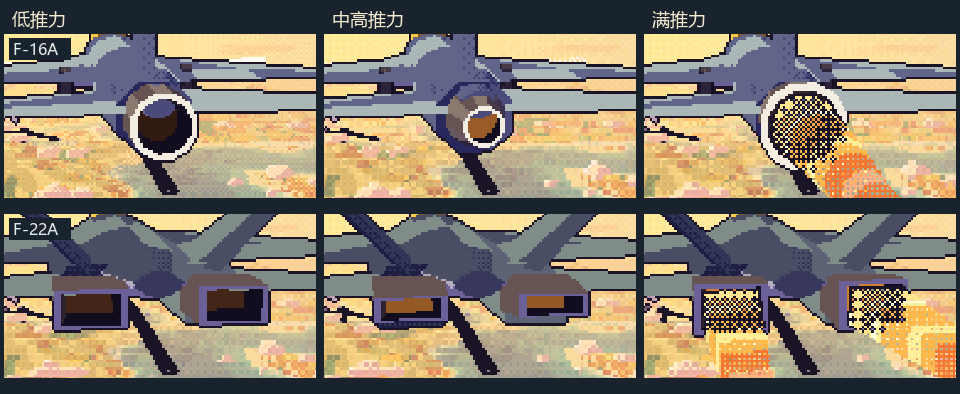
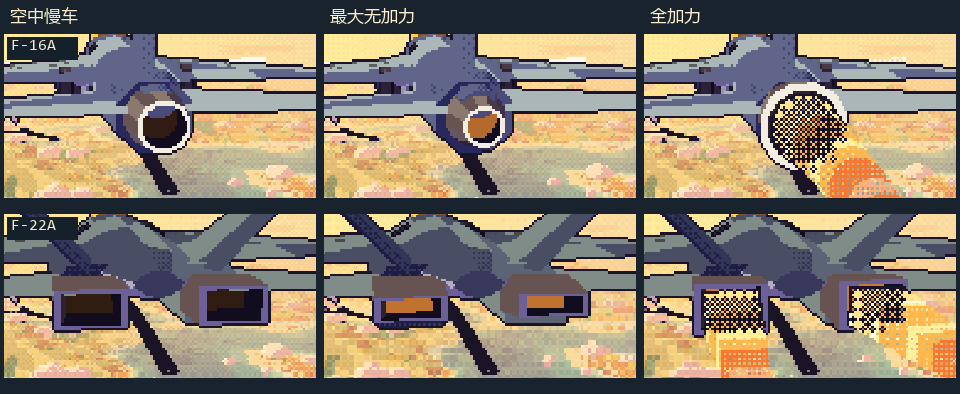
Show dry and augmented nozzle stages and resolve decoys in flight

diff --git a/index.html b/index.html
@@ -635,6 +635,11 @@ float bayer4(vec2 fc){ ivec2 i = ivec2(fc) & 3;
   return (float(m[i.x + i.y*4]) + 0.5) / 16.0; }
 void main(){
   vec2 q = gl_PointCoord * 2.0 - 1.0; float r = dot(q, q); if (r > 1.0) discard;
+  if(vData.z==5.){
+    float fade=1.-smoothstep(.72,1.,vData.y);
+    if(r>.065 && bayer4(gl_FragCoord.xy)>fade*(r>.82?.26:.13))discard;
+    o=vec4(r<.018?vec3(1.,1.,.88):r<.065?vec3(1.,.82,.40):vec3(.96,.56,.27),0.);return;
+  }
   if(vData.z>5.5){o=vec4(vData.w<1.?vec3(1.,1.,.82):vec3(1.,.65,.27),0.);return;}
   float age = vData.y;
   float a = (1.0 - smoothstep(0.5, 1.0, age)) * vNear;
@@ -650,10 +655,6 @@ void main(){
   } else if (vData.z < 2.5) {     // fireball: white, gold, orange, ember, soot
     c = age < 0.16 ? vec3(1.0, 0.98, 0.86) : age < 0.42 ? vec3(1.0, 0.86, 0.42) : age < 0.66 ? vec3(0.98, 0.56, 0.22) : age < 0.84 ? vec3(0.80, 0.29, 0.20) : vec3(0.40, 0.27, 0.32);
     if (age > 0.16 && age < 0.66 && r < 0.25) c = min(c + vec3(0.02, 0.12, 0.26), 1.0);     // hotter heart
-  } else if(vData.z > 4.5){
-    vec2 p=abs(q);
-    if(p.x+p.y>.88&&min(p.x,p.y)>.10)discard;
-    c=p.x+p.y<.40?vec3(1.,1.,.94):p.x+p.y<.66?vec3(1.,.84,.47):vec3(.97,.50,.21);
   } else if (vData.z > 3.5) {     // the flash
     c = age < 0.5 ? vec3(1.0, 0.99, 0.93) : vec3(1.0, 0.92, 0.62);
   } else {                        // the dark smoke that hangs afterwards
@@ -822,7 +823,7 @@ const PLANE = {
   gl.bindVertexArray(null);
   let streakStamp=-1,streakCount=0;
   const PART_N = 760;
-  const partData = new Float32Array((PART_N+8+64) * 7);
+  const partData = new Float32Array((PART_N+12+12*Outfit.flares.capacity) * 7);
   const partBuf = gl.createBuffer(); gl.bindBuffer(gl.ARRAY_BUFFER, partBuf); gl.bufferData(gl.ARRAY_BUFFER, partData.byteLength, gl.DYNAMIC_DRAW);
   const partVAO = vao(partBuf, [3, 4], 7);
 
@@ -1062,7 +1063,7 @@ const PLANE = {
   const JS = 1.3;   // the jet is drawn a little larger than life so it reads from high above
   function toWorld(B, p) { return add(S.pos, add(add(mul(B.r, p[0] * JS), mul(B.u, p[1] * JS)), mul(B.f, p[2] * JS))); }
 
-  const flareFans=[];
+  const decoyAge=(d,now)=>(room.tracerClock+now-room.tracerTime)*.001-d.at;
   room.onEffect=event=>{
     audio.event(event,room.id,cam);
     if(event.loss>0 && event.part && (event.from===room.id || event.to===room.id)){
@@ -1071,10 +1072,6 @@ const PLANE = {
       impactUntil=performance.now()+2500;
     }
     if(event.kind==='intercept' && event.from===room.id){notice='机炮拦截成功';noticeUntil=performance.now()+1600;}
-    if(event.kind==='flare'){
-      if(flareFans.length===32)flareFans.shift();
-      flareFans.push({a:event.a,arms:[sub(event.b,event.a),sub(event.c,event.a)],born:performance.now()-Math.min(1200,Math.max(0,(room.tracerClock??0)-event.at*1000)),next:0,cores:[new Float32Array(3),new Float32Array(3)]});
-    }
     if(event.loss>0 || ['hit','spark','burst','fade','intercept'].includes(event.kind)){
       const big=event.kind==='burst'||event.loss>=14;
       spawn(event.b,[0,0,0],.16,big?25:11,4);
@@ -1172,17 +1169,11 @@ const PLANE = {
         shot.smokeAt=now+36;
       }
     }
-    for(let i=flareFans.length-1;i>=0;i--){
-      const fan=flareFans[i],age=(now-fan.born)/1000;
-      if(age>1.35){flareFans.splice(i,1);continue;}
-      const travel=1-Math.exp(-2.8*age),smoke=now>=fan.next;
-      if(smoke)fan.next=now+105;
-      for(let k=0;k<fan.arms.length;k++){
-        const arm=fan.arms[k],p=fan.cores[k];
-        for(let d=0;d<3;d++)p[d]=fan.a[d]+arm[d]*travel;
-        p[1]-=24*age*age;
-        if(smoke)spawn(p,[0,2,0],.61,3.6,3);
-      }
+    for(const d of room.decoys.values()){
+      const age=decoyAge(d,now);
+      if(age<0 || age>=Outfit.flares.life)continue;
+      Outfit.flarePosition(d.start,d.velocity,age,d.pos);
+      if(now>=d.nextSmoke){d.nextSmoke=now+95;spawn(d.pos,[0,2,0],.61,3.6,3);}
     }
 
     // wing-tip vapour, and the furrow the jet wash cuts in the water
@@ -1489,8 +1480,8 @@ const PLANE = {
       gl.uniform4f(pr.u('uWear'),c.fuselage/100,c.leftWing/100,c.rightWing/100,c.tail/100);
       gl.uniform4f(pr.u('uGearWear'),c.leftGear/100,c.rightGear/100,c.noseGear/100,c.engine/100);
       const spec=Flight.fleet[type];
-      const burner=spec.auxBurner?rig[6]:0,opening=Flight.nozzleOpening(spec,rig[5],rig[6])-1;
-      const exhaust=(spec.highPower ? .94*sstep(.72,1,rig[5]):.06*rig[5]**2)+burner*.90;
+      const burner=Flight.burnerStage(spec,rig[5],rig[6]),opening=Flight.nozzleOpening(spec,rig[5],rig[6],rig[3])-1;
+      const exhaust=.94*sstep(0,1,burner);
       gl.uniform4f(pr.u('uOutlet'),spec.flatOutlet?0:opening,opening,spec.engineSpacing,rig[5]);
       const mist=Math.max(0,1-Math.abs(mach-1)/.087)*clamp((1700-pos[1])/800,0,1);
       gl.uniform4f(pr.u('uControls'),rig[0],rig[1],rig[2],rig[3]);
@@ -1565,15 +1556,13 @@ const PLANE = {
       partData[o + 3] = parts.size[i] * (kd === 0 ? 0.7 + a * 2.4 : kd === 2 ? 0.6 + a * 1.0 : kd === 3 ? 0.4 + a * 2.0 : kd === 4 ? 0.7 + a * 0.5 : 1); partData[o + 4] = a; partData[o + 5] = parts.kind[i]; partData[o + 6] = i;
       n++;
     }
-    // Reserve two directly drawn cores per active packet even when smoke is at capacity.
     const flareNow=performance.now();
-    for(const fan of flareFans){
-      const a=Math.max(0,(flareNow-fan.born)/1350);
-      for(let k=0;k<fan.cores.length;k++){
-        const o=n++*7,p=fan.cores[k];
-        partData[o]=p[0];partData[o+1]=p[1];partData[o+2]=p[2];
-        partData[o+3]=(k?5.3:7.5)*(1-.55*a);partData[o+4]=Math.min(1,a);partData[o+5]=5;partData[o+6]=k;
-      }
+    for(const d of room.decoys.values()){
+      const age=decoyAge(d,flareNow);
+      if(age<0 || age>=Outfit.flares.life)continue;
+      const o=n++*7;
+      partData[o]=d.pos[0];partData[o+1]=d.pos[1];partData[o+2]=d.pos[2];
+      partData[o+3]=Outfit.flares.radius*2;partData[o+4]=age/Outfit.flares.life;partData[o+5]=5;partData[o+6]=0;
     }
     if(room.combat && performance.now()-room.tracerTime<220){
       const phase=.5+.5*Math.cos(2*Math.PI*Sight.gunRate*S.time);
@@ -1626,7 +1615,7 @@ const PLANE = {
     inspectParts=false;damageUntil=0;$('damage-panel').hidden=true;
     audio.setActive(false);
     outfit.close();$('lake-chart').hidden=true;
-    watchId=null;onlineSortie=false;$('title').classList.remove('gone');S.view=S.prev=0;S.viewT=1;flareFans.length=0;
+    watchId=null;onlineSortie=false;$('title').classList.remove('gone');S.view=S.prev=0;S.viewT=1;
     releaseKeys(); flying=false; room.leave(); $('hangar').hidden=false; $('strip').hidden=true;
     $('strip').classList.remove('seated');
     $('scope').hidden=true;$('launch-note').textContent='';displayCard();$('mode').focus();
@@ -1815,7 +1804,7 @@ const PLANE = {
     const runway=Airfields.at(body.pos[0],body.pos[2]);
     const gearInfo=body.grounded?'地面 · '+(keys.has('KeyZ')?'刹车':S.speed<2?'R 加油门':'抬轮参考 '+Math.round(body.rotateSpeed*3.6)+' km/h · S 抬头'):
       runway&&body.pos[1]-runway.y<90?'跑道上方 '+Math.round(body.pos[1]-runway.y)+' m · 垂速 '+S.vs.toFixed(1)+' m/s':body.updraft>.2?'上升气流 +'+body.updraft.toFixed(1)+' m/s':S.g.toFixed(1)+' G';
-    $('telemetry').textContent=Math.round(S.speed*3.6)+' km/h　M '+body.mach.toFixed(2)+'　'+Math.round(S.pos[1])+' m　'+Math.round(body.throttle*100)+'% 油门　'+gearLabel+'　'+gearInfo;
+    $('telemetry').textContent=Math.round(S.speed*3.6)+' km/h　M '+body.mach.toFixed(2)+'　'+Math.round(S.pos[1])+' m　'+Math.round(body.throttle*100)+'% 油门'+(Flight.burnerStage(Flight.fleet[body.type],body.engine,body.deploy)>.005?' · 加力':'')+'　'+gearLabel+'　'+gearInfo;
     const peers=room.combat?[]:[...room.peers.values()].map(peer=> {
       const delta=sub(nearest(peer.pos,S.pos),S.pos), bearing=(Math.atan2(delta[0],-delta[2])*180/Math.PI+360)%360;
       return peer.name+' '+Math.round(Math.hypot(...delta))+' m / '+Math.round(bearing)+'°';
@@ -1888,7 +1877,7 @@ const PLANE = {
     $('trait-state').textContent=(watched?'观测 '+watched.name+'　':'')+(S.view===3&&orbit.anchor?'定点观测':VIEWS[S.view])+'　/　'+(active?'V ':'')+spec.trait+
       (active?(spec.unstable?(rig[6]>.5?' · 增稳放宽':' · 自动增稳'):(rig[6]>.06?' · 已展开':' · 待命')):'')+(!watched&&type==='pulse'?'　电量 '+Math.round(body.charge*100)+'%':'')+
       (spec.canard?'　前翼 左 '+Math.round(-Flight.canardAngle(spec,rig[0],rig[2],rig[6],-1)*180/Math.PI)+'° / 右 '+Math.round(-Flight.canardAngle(spec,rig[0],rig[2],rig[6],1)*180/Math.PI)+'°':'')+
-      nozzle+(spec.shaft?'':'　喷口开度 '+Math.round(100*Flight.nozzleOpening(spec,rig[5],rig[6])/(spec.highPower?1.27:1.04))+'%')+(!watched&&(spec.vector||spec.unstable)?'　迎角 '+Math.round(body.alpha*180/Math.PI)+'°':'');
+      nozzle+(spec.shaft?'':(Flight.burnerStage(spec,rig[5],rig[6])>.005?'　加力':'　无加力')+' · 喷口相对开度 '+Math.round(100*Flight.nozzleOpening(spec,rig[5],rig[6],rig[3])/(spec.highPower?1.27:1.04))+'%')+(!watched&&(spec.vector||spec.unstable)?'　迎角 '+Math.round(body.alpha*180/Math.PI)+'°':'');
   }
 
   const audio=new FlightAudio(Sight.gunRate);

diff --git a/flight.js b/flight.js
@@ -42,7 +42,7 @@ const Flight = (() => {
   fleet.j20={...fleet.cirrus,name:'歼-20',role:'双发鸭式 · 外形复刻',noseLength:13.5,wingLevel:false,yawDamper:true};
   fleet.j16={...fleet.comet,name:'歼-16',role:'串列双座 · 外形复刻',noseLength:12.1,roll:3.15,pitch:1.72,yawDamper:true};
   fleet.f4={...fleet.comet,name:'F-4C 鬼怪 II',role:'折翼双座',noseLength:11.8,roll:2.95,yawDamper:true};
-  fleet.f16={...fleet.petrel,name:'F-16A 战隼',role:'单发轻型',singleEngine:true,noseLength:10.8,roll:5.15,landingFlaps:true};
+  fleet.f16={idleAreaReset:true,...fleet.petrel,name:'F-16A 战隼',role:'单发轻型',singleEngine:true,noseLength:10.8,roll:5.15,landingFlaps:true};
   fleet.f22={...fleet.lance,name:'F-22A 猛禽',role:'双尾二维矢量',noseLength:12.4,roll:3.75};
   fleet.f15={...fleet.comet,name:'F-15C 鹰',role:'双垂尾重型',noseLength:13.8,roll:3.45,pitch:1.75,wingLevel:true};
   fleet.m2000={...fleet.delta,name:'幻影 2000C',role:'无平尾三角翼',singleEngine:true,noseLength:12.6,elevon:true,yawDamper:true};
@@ -228,7 +228,7 @@ const Flight = (() => {
       body.vecYaw+=(yaw/limit-body.vecYaw)*response;
       body.vecRoll+=(roll/limit-body.vecRoll)*response;
     }
-    const powerLever=clamp((body.engine-.72)/.28,0,1);
+    const powerLever=highPowerStage(spec,body.engine);
     const boostedThrust=(spec.highPower||0)*powerLever**2*clamp((speed-(body.type==='kite'?120:55))/110,0,1)*
       clamp(rho/1.225,.25,1)*clamp((2.35-body.mach)/.65,.15,1);
     const tilt=body.vector*.50,thrust=boostedThrust/spec.mass+(body.engine*(body.type==='needle'?1+.60*body.deploy:body.type==='sail'?1-body.deploy:1)+1.05*sprint)*fullThrust(spec,speed,rho)/spec.mass;
@@ -277,14 +277,20 @@ const Flight = (() => {
     if(body.grounded){body.stalled=false;if(speed<2){body.alpha=0;body.slip=0;}}
     body.load=body.grounded?1:(accelX*axis.u[0]+accelY*axis.u[1]+accelZ*axis.u[2])/9.81;
   }
-  // Visual travel follows the spooled engine. The lip narrows in dry power
-  // and opens again as the game's high-power stage comes in.
-  function nozzleOpening(spec,engine,deploy=0){
-    const dry=clamp(engine/.72,0,1),wet=clamp((engine-.72)/.28,0,1);
-    const boost=Math.max(spec.highPower?wet:0,spec.auxBurner?deploy:0);
-    return 1.04-.45*dry*(2-dry)+.68*boost*boost*(3-2*boost);
+  function highPowerStage(spec,engine){
+    return spec.highPower?clamp((engine-.72)/.28,0,1):0;
+  }
+  function burnerStage(spec,engine,deploy){
+    return Math.max(highPowerStage(spec,engine),spec.auxBurner?deploy:0);
+  }
+  function nozzleOpening(spec,engine,deploy=0,gear=0){
+    const dry=clamp(engine/(spec.highPower ? .72 : 1),0,1);
+    const idle=spec.idleAreaReset ? .80+.24*gear : 1.04;
+    const throat=.59+(idle-.59)*(1-dry)**2;
+    const wet=burnerStage(spec,engine,deploy);
+    return throat+(1.27-throat)*wet*wet*(3-2*wet);
   }
   function rig(b){return [...b.controls,b.gear,b.vector,b.engine,b.deploy,b.vecYaw,b.vecRoll];}
-  return { fleet, canardAngle, nozzleOpening, rig, create, approach, axes, step, density,soundSpeed,thermal,boomMargin,tick: 1/120 };
+  return { fleet, canardAngle, burnerStage, nozzleOpening, rig, create, approach, axes, step, density,soundSpeed,thermal,boomMargin,tick: 1/120 };
 })();
 if (typeof module !== 'undefined') module.exports = Flight;

diff --git a/room.js b/room.js
@@ -15,7 +15,7 @@ class FlightRoom {
   }
   hostile(peer) { return this.mode==='pvp'||(this.mode==='pve'&&peer.id.startsWith('ai-')); }
   constructor() {
-    this.peers=new Map();this.marks=new Map();this.shots=new Map();this.tracers=new Map();this.seenTracer=0; this.generation=0; this.status='单人飞行'; this.nextSync=0;
+    this.decoys=new Map();this.peers=new Map();this.marks=new Map();this.shots=new Map();this.tracers=new Map();this.seenTracer=0; this.generation=0; this.status='单人飞行'; this.nextSync=0;
   }
   cycleTarget() {
     const peers=[...this.peers.values()].filter(p=>p.hp&&this.hostile(p));
@@ -45,7 +45,7 @@ class FlightRoom {
     return response.json();
   }
   leave() {
-    this.marks.clear();
+    this.decoys.clear();this.marks.clear();
     if(this.token) this.request('leave',{},this.token).catch(()=>{});
     this.triggerTap=false;this.tracerTime=-Infinity;this.token=null; this.generation++; this.busy=false; this.peers.clear(); this.shots.clear();this.tracers=new Map();this.seenTracer=0;this.name=''; this.status='单人飞行';
     this.hurt=null;this.strike=null;
@@ -74,7 +74,7 @@ class FlightRoom {
       if(duel && this.pendingKit!==null)command.kit=this.pendingKit;
       if(duel && Sight.profiles[this.weapon])command.autoFocus=!this.manualTarget && !launch;
       this.triggerTap=false;this.dodge=false;
-      const {peers,self:wireSelf,events,serial,harbor,shots,tracers,clock,tracerSeq,live,mission,tracking}=await this.request('sync',command,this.token);
+      const {peers,self:wireSelf,events,serial,harbor,shots,tracers,clock,tracerSeq,live,mission,tracking,decoys=[]}=await this.request('sync',command,this.token);
       if(version!==this.generation) return;
       const keep=new Set();
       for(let i=0;i<peers.length;i++){
@@ -97,6 +97,15 @@ class FlightRoom {
           if(range===live.length || id<live[range])this.tracers.delete(id);
         }
         this.seenTracer=tracerSeq;this.tracerClock=clock;this.tracerTime=performance.now();
+        const liveDecoys=new Set();
+        for(const row of decoys){
+          if(Array.isArray(row)){
+            const [id,at,start,velocity]=row;
+            this.decoys.set(id,{at,start,velocity,pos:start.slice(),nextSmoke:0});
+            liveDecoys.add(id);
+          }else liveDecoys.add(row);
+        }
+        for(const id of this.decoys.keys())if(!liveDecoys.has(id))this.decoys.delete(id);
         this.kit=self.kit;
         if(this.pendingKit===self.kit)this.pendingKit=null;
         if(!Outfit.has(self.kit,this.weapon))this.selectWeapon(self.weapon);

diff --git a/outfit.js b/outfit.js
@@ -1,6 +1,13 @@
 const Outfit = (() => {
   const budget=7;
-  const flares={capacity:12,burst:3,refill:60,interval:.24};
+  const flares={capacity:12,burst:3,refill:60,interval:.24,life:1.8,radius:32};
+  // Animated club decoy: the room and the renderer sample the same trajectory.
+  function flarePosition(start,velocity,age,out){
+    const travel=age/(1+.80*age);
+    for(let i=0;i<3;i++)out[i]=start[i]+velocity[i]*travel;
+    out[1]-=9*age*age;
+    return out;
+  }
   const items=[
     {id:'gun',name:'机炮',cost:2,tip:'对准机头自由射击，连射过热后需冷却'},
     {id:'missile',name:'燕尾格斗弹',cost:4,tip:'近距宽圈，捕获快，冷却短'},
@@ -23,6 +30,6 @@ const Outfit = (() => {
   function describe(mask,active){
     return items.flatMap((item,i)=>has(mask,item.id)?[(active===item.id?'▸ ':'')+keyLabel(i)+' '+item.name]:[]).join('　');
   }
-  return {items,keys,keyLabel,budget,flares,has,cost,valid,first,maskOf,describe,standard:3};
+  return {items,keys,keyLabel,budget,flares,flarePosition,has,cost,valid,first,maskOf,describe,standard:3};
 })();
 if(typeof module!=='undefined')module.exports=Outfit;

diff --git a/airfields.js b/airfields.js
@@ -30,6 +30,9 @@ const Airfields = (() => {
   function sector(b,point){
     const dx=point[0]-b.pos[0],dy=point[1]-b.pos[1],dz=point[2]-b.pos[2];
     const dot=v=>dx*v[0]+dy*v[1]+dz*v[2],side=dot(b.basis.r),along=dot(b.basis.f);
+    return localSector(side,along);
+  }
+  function localSector(side,along){
     if(Math.abs(side)>2 && Math.abs(side)>.55*Math.abs(along))return side<0?'leftWing':'rightWing';
     if(along<-3)return Math.abs(side)>1?'engine':'tail';
     return 'fuselage';
@@ -117,6 +120,6 @@ const Airfields = (() => {
     if(!was)body.service=0;body.vel[1]=Math.max(1.2,speed*Math.sin(pitch)*.4);body.pos[1]+=.07;
     }
   }
-  return {strips,at,contact,park,clearance,labels,freshCondition,wear,scrape,brush,sector};
+  return {strips,at,contact,park,clearance,labels,freshCondition,wear,scrape,brush,sector,localSector};
 })();
 if(typeof module!=='undefined')module.exports=Airfields;

diff --git a/peer-pose.js b/peer-pose.js
@@ -6,7 +6,7 @@ const selfFields=[
   'cool','flares','puffs','dodge','diverted','acquire','warned','incoming'
 ];
 const PeerPose={
-  protocol:17,
+  protocol:18,
   // Each reply stands alone. Packet loss and respawn need no baseline or repair delta.
   packSelf(p){return [...selfFields.map(key=>p[key]),p.damaged?p.condition:null,p.star??null,p.flareRefill,p.arcThreat,p.laserThreat];},
   unpackSelf(row,freshCondition){

diff --git a/README.md b/README.md
@@ -218,7 +218,7 @@ PvP 信标每 45 秒在中继站、天文台、云梯和折光船坞之间轮换
 
 按 **7** 查看左右翼、尾翼、发动机、机身、左右主轮和前轮。地标擦碰、飞机互擦和 PvP 命中使用同一套状态。翼损会减少升力并造成偏滚，尾翼损伤降低操纵响应，动力和制动也会随对应部件受损而衰减。机场跑道上停稳并把油门降到怠速，持续 6 秒可完成地勤维修；观光和 PvP 均适用。
 
-按 C 切到环绕视角，用方向键转到机尾，按 R 加油门、F 收油门。下图是同一机位的三个发动机推力档。圆喷口整圈收放，F-22A 的扁喷口只改变上下间距。开合曲线按游戏表现设定。
+按 C 切到环绕视角，用方向键转到机尾，按 R 加油门、F 收油门。下图依次为空中慢车、最大无加力和全加力。推到无加力末段，喷口收小；进入加力段后，尾气升温，喷口重新张开。机上读数会标出加力状态。F-16A 收轮时的慢车开度比放轮时小；圆喷口整圈收放，F-22A 扁喷口上下张合。具体开度与油门分界采用游戏曲线。[NASA 对加力与喷口面积的解释](https://www.nasa.gov/special-projects-laboratory-turbojet-enhancements/) · [F-16A/B 飞行手册的排气喷口章节](https://www.aahs-online.org/resources/e-library/fm/USAF-F16A_B-Flight-Manual.pdf)
 
 ![F-16A 圆喷口与 F-22A 扁喷口在三个推力档位的游戏画面](docs/media/nozzle-power.webp)
 
@@ -258,7 +258,7 @@ PvP 信标每 45 秒在中继站、天文台、云梯和折光船坞之间轮换
 | 6 / J | 染光印给 700 m 内对手此刻所在的位置盖章。1.2 秒后仍在印记中心 115 m 内扣 30 HP，离开则避开。冷却 4.2 秒。 |
 | 4 + 按住 J | 已装备共鸣脉冲时，向周围玩家释放范围能量，每次造成 23 点伤害，3.6 秒冷却。 |
 | T | 自动选中最靠近圈心的敌机，也可按 T 指定。最多三架敌机可以同时在圈内蓄锁，按 T 换主目标时保留其他飞机的进度。看到目标中央的金圈和 LOCK 后点按 J。每次按键只发一枚，发射后立刻按 T 也能接着选下一架。 |
-| 1 + 按住 J | 沿机头连续发射每秒 30 发的像素曳光弹，每发都有弹迹，空房也能练习。房主按弹迹与机体相交判命中。从冷枪开始可连续打 96 发，约 3.2 秒。过热后锁止，约 2.5 秒降至 20% 解锁。 |
+| 1 + 按住 J | 沿机头连续发射每秒 30 发的像素曳光弹，每发都有弹迹，空房也能练习。每发命中扣 4 点机体耐久，侧翼命中还会损伤对应机翼。房主连续检查弹迹与移动机体的交会，翼尖和机身上下都留有擦边余量。从冷枪开始可连续打 96 发，约 3.2 秒。过热后锁止，约 2.5 秒降至 20% 解锁。 |
 | 2 / J | 燕尾格斗弹在 2,000 游戏米内使用宽锁定圈，连续捕获 1.05 秒后显示 LOCK，按 J 发射，冷却 4.8 秒。 |
 | 8 / J | 流光远程弹的锁定距离为 550–4,400 游戏米，准星圈较窄，连续捕获 1.85 秒，冷却 8 秒。飞行途中带青色光迹。两种弹均需直接接触机体，按最先碰到的模型部件结算，直接打中机身可击毁满血机。翼面、尾翼、发动机和起落架各有独立耐久。展开的折光镜阵可以抵挡一次命中。飞机出圈或超距会丢掉自己的进度。切换武器会清空这组标记。 |
 | 3 + 按住 J | 保持同一目标在激光炮的瞄准圈内，按住 J 可看到照射进度。连续照射 2.2 秒击毁目标，出圈、换目标或松键会清零。 |
@@ -268,7 +268,7 @@ PvP 信标每 45 秒在中继站、天文台、云梯和折光船坞之间轮换
 
 北向雷达用短线标出航向，量程外的飞机在边缘显示空心点。看机外名牌可以读到目标的高低方向、逐机捕获百分比和 LOCK；切到机炮，近处主目标旁边会出现金色预瞄菱形。锁定预警和来袭提示分开，被跟踪时是间隔较长的单响，来袭时是急促的双响。炮温到顶有下降音，冷却解锁有上升音。座舱还能听到失速、快速接近地面的提示；机场有收放轮、接地、滚行和检修完成声。所有声音由浏览器本地合成。热诱弹的亮点、烟迹和空间层次参考了航展公开影像；发射节奏和补充规则属于游戏设定。[航展照片](https://www.dvidshub.net/image/8397186/gulf-coast-salute-air-show-2024)。
 
-房主负责移动追踪弹的实体。最后一段动画会跟着目标的位置更新。短暂的滚转修正不会立刻断开追踪，持续的大幅机动或热诱弹仍可甩脱。弹体与弹翼接触飞机模型才造成伤害。擦过机翼或从机腹下飞过可脱靶，地标能挡弹，机炮曳光弹碰到弹体可在空中将其拦截。瞄准空处一样可以开火，弹迹会被地景和跑道拦下。武器和诱饵使用虚构规则。
+房主负责移动追踪弹的实体。最后一段动画会跟着目标的位置更新。短暂的滚转修正不会立刻断开追踪，持续的大幅机动可以断开追踪。每枚热诱弹各有一个橙色光晕，脱离飞机后沿抛物状弧线减速、下坠，约 1.8 秒后熄灭。来弹与仍在燃烧的本机诱饵光晕相交时才转向该亮点，先碰到飞机或障碍则先结算碰撞。弹体与弹翼接触飞机模型才造成伤害。擦过机翼或从机腹下飞过可脱靶，地标能挡弹，机炮曳光弹碰到弹体可在空中将其拦截。瞄准空处一样可以开火，弹迹会被地景和跑道拦下。武器和诱饵使用虚构规则。
 
 **星标追逐**可以在机库单独选房。持星者带有星形标记，每持有 8 秒得 1 分；击毁持星者夺星并得 2 分。B 导航到持星者。两种 PvP 都记录助攻：其他玩家在击毁前 5 秒内对同一目标造成过伤害，即可获得一次助攻。
 
@@ -282,7 +282,7 @@ PvP 信标每 45 秒在中继站、天文台、云梯和折光船坞之间轮换
 
 ## 验证与性能
 
-运行 `node lake-check.cjs` 验证桥下通行、结构碰撞、信标换点与争夺、双人持续集结、预算和换装。运行 `node fleet-check.cjs` 验证机型特性、八人混合房、重生与镜头。房主和玩家请使用同一版本，竞技协议版本为 17。运行 `node airfield-check.cjs` 可复核 42 架飞机 × 3 座机场的连续落地、刹停、再起飞、收轮，以及音锥和新增配装。
+运行 `node lake-check.cjs` 验证桥下通行、结构碰撞、信标换点与争夺、双人持续集结、预算和换装。运行 `node fleet-check.cjs` 验证机型特性、八人混合房、重生与镜头。房主和玩家请使用同一版本，竞技协议版本为 18。运行 `node airfield-check.cjs` 可复核 42 架飞机 × 3 座机场的连续落地、刹停、再起飞、收轮，以及音锥和新增配装。
 
 运行 `node range-check.cjs` 复核持续平飞超声速、外围航点及赛场边界。十八处地点共用静态顶点缓冲，只绘制进入镜头范围的批次。地标坐标随游戏加载，联机同步玩家与活动进度。航图底图在地形生成后绘制一次，打开时每 150 毫秒更新位置和榜单。按 P 可以在自己的设备上查看平均帧耗时、FPS 和内部渲染分辨率。
 

diff --git a/FLIGHT-VALIDATION.md b/FLIGHT-VALIDATION.md
@@ -65,6 +65,8 @@
 
 房主在每个 120 Hz 物理步内计算相对位移。弹体和弹翼使用渲染模型的凸形分段，飞机接收碰撞的三角面来自同一份机模。先用包围盒排除远处物体，再检查接触时间。位置连续扫过，转动与舵面姿态按物理步更新。炮弹与导弹相交、导弹与飞机相交、撞到地标都按步内先后处理。网络画面会在两次快照之间插值。
 
+机炮使用按机型半翼展和机长缩放的椭球，垂直半轴为 5 个游戏米。每步按弹丸与目标的相对位移求首次交会，再与场景遮挡、拦截事件按时间排序。热诱弹的逐枚轨迹和燃烧时间由房主管理，客户端复用同一轨迹公式；即使投放事件从短期日志中移出，中途加入仍可重建空中的诱饵。
+
 运行 `node patrol-check.cjs` 可复核直击、同路线横向错开、前方第三机接触、无锁机炮拦截、两个飞行物在不同时间穿过同一位置、转弯脱靶和热诱弹余量。运行 `node range-check.cjs` 检查四个新起点到航点的通道、海拔、边界和地形周期。
 
 外环版在 1024 × 720 窗口、Edge 无头模式、SwiftShader、自适应画质下，用一个实际绘制画面的浏览器与七个协议客户端同时按住开火 8.8 秒，峰值 200 条弹迹，平均 34.7 FPS，帧间隔 P95 为 33.4 毫秒。投影用固定尺寸图集，地标的光照深度只画一次，飞行中的飞机按距离和可接影高度剔除。测试设备和视角会影响实际帧率。
